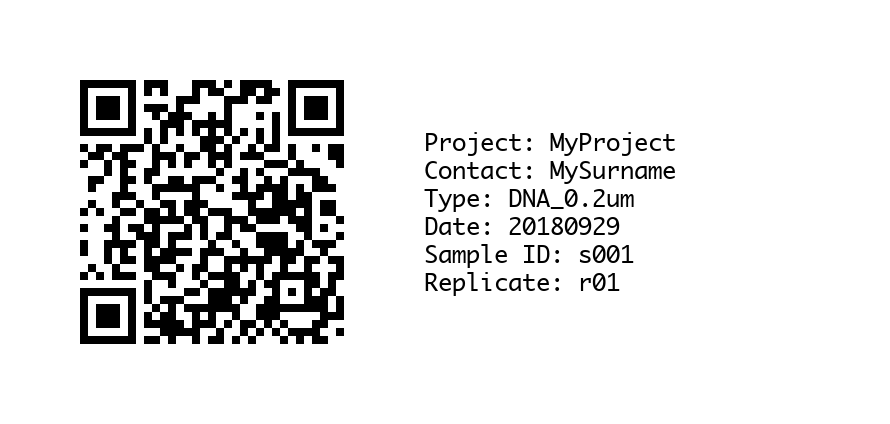
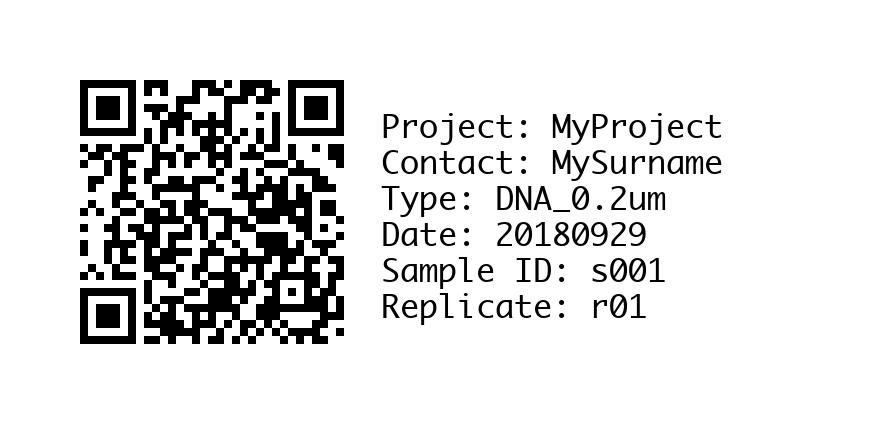
increased font size

Changed region(s): [[0.4247, 0.2453, 0.8191, 0.7665]]

diff --git a/generate_labels.py b/generate_labels.py
@@ -38,8 +38,8 @@ def make_label(project, contact, sample_type, date, sample, replicate, label_wid
     label = Image.new('RGB', (int(img.height*label_width/label_height), img.height), color='white')
     label.paste(img, (0,0))
     draw = ImageDraw.Draw(label)
-    font = ImageFont.truetype('Monaco.dfont', 24)
-    draw.text((img.height,int(img.height*0.3)), string, (0,0,0), font=font)
+    font = ImageFont.truetype('Monaco.dfont', 32)
+    draw.text(((img.height*0.9), int(img.height*0.25)), string, (0,0,0), font=font)
     label.save('labels_%s/label_s%03d_r%02d.png' % (project, sample, replicate))
 
 @click.command()
